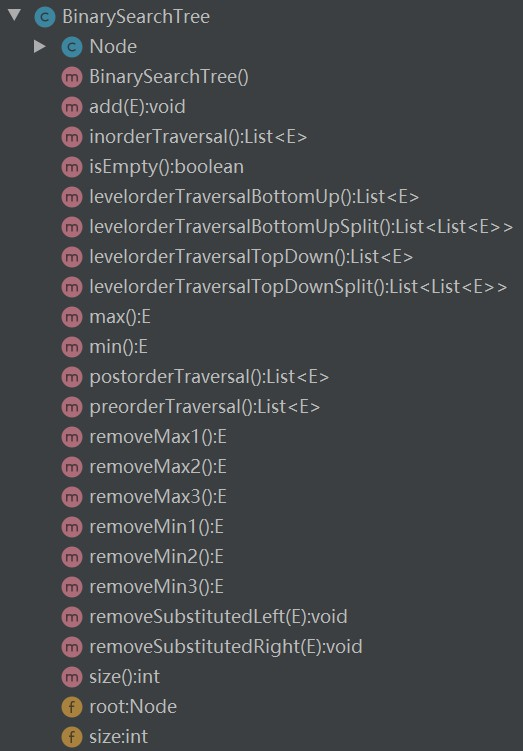
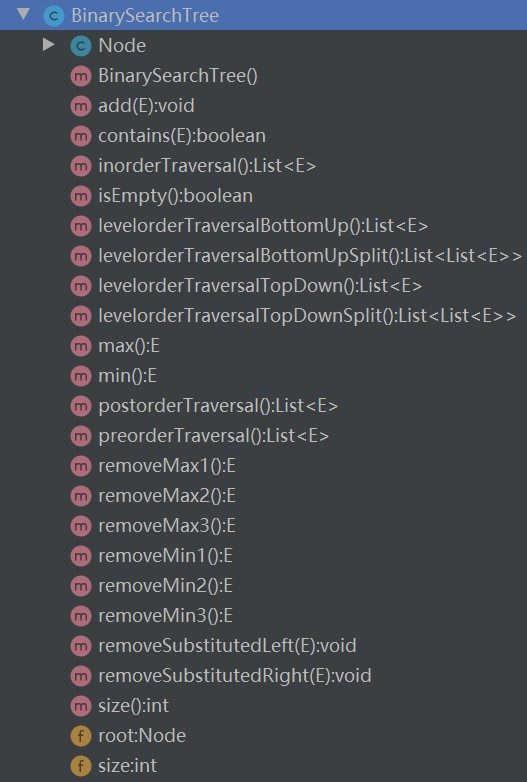
null

Changed region(s): [[0.0, 0.0, 1.0, 1.0]]

diff --git a/computer-basic/data-structures-and-algorithms/imooc/dsna-system-2021/331bd7dd-a149-4fb3-a74e-c12f91df33d2.md b/computer-basic/data-structures-and-algorithms/imooc/dsna-system-2021/331bd7dd-a149-4fb3-a74e-c12f91df33d2.md
@@ -16,6 +16,7 @@
 - 层序（次）遍历（自顶向下；按层返回，比如返回类型为`List<List<E>>`）；
 - 层序（次）遍历（自底向上）；
 - 层序（次）遍历（自底向上；按层返回，比如返回类型为`List<List<E>>`）；
+- 判断当前二分搜索树中是否指定值的节点；
 - 获取当前二分搜索树中的最大值；
 - 获取当前二分搜索树中的最小值；
 - 删除当前二分搜索树中的最大值的节点；
@@ -335,6 +336,35 @@ public class BinarySearchTree<E extends Comparable<E>> {
         Collections.reverse(result);
 
         return result;
+    }
+
+    /**
+     * 二分搜索树中是否包含指定值的节点
+     *
+     * @param val 值
+     * @return true / false
+     */
+    public boolean contains(E val) {
+        if (val == null) {
+            return false;
+        }
+
+        if (root == null) {
+            return false;
+        }
+
+        Node cur = root;
+        while (cur != null) {
+            if (val.compareTo(cur.val) == 0) {
+                break;
+            } else if (val.compareTo(cur.val) < 0) {
+                cur = cur.left;
+            } else {
+                cur = cur.right;
+            }
+        }
+
+        return cur != null;
     }
 
 
